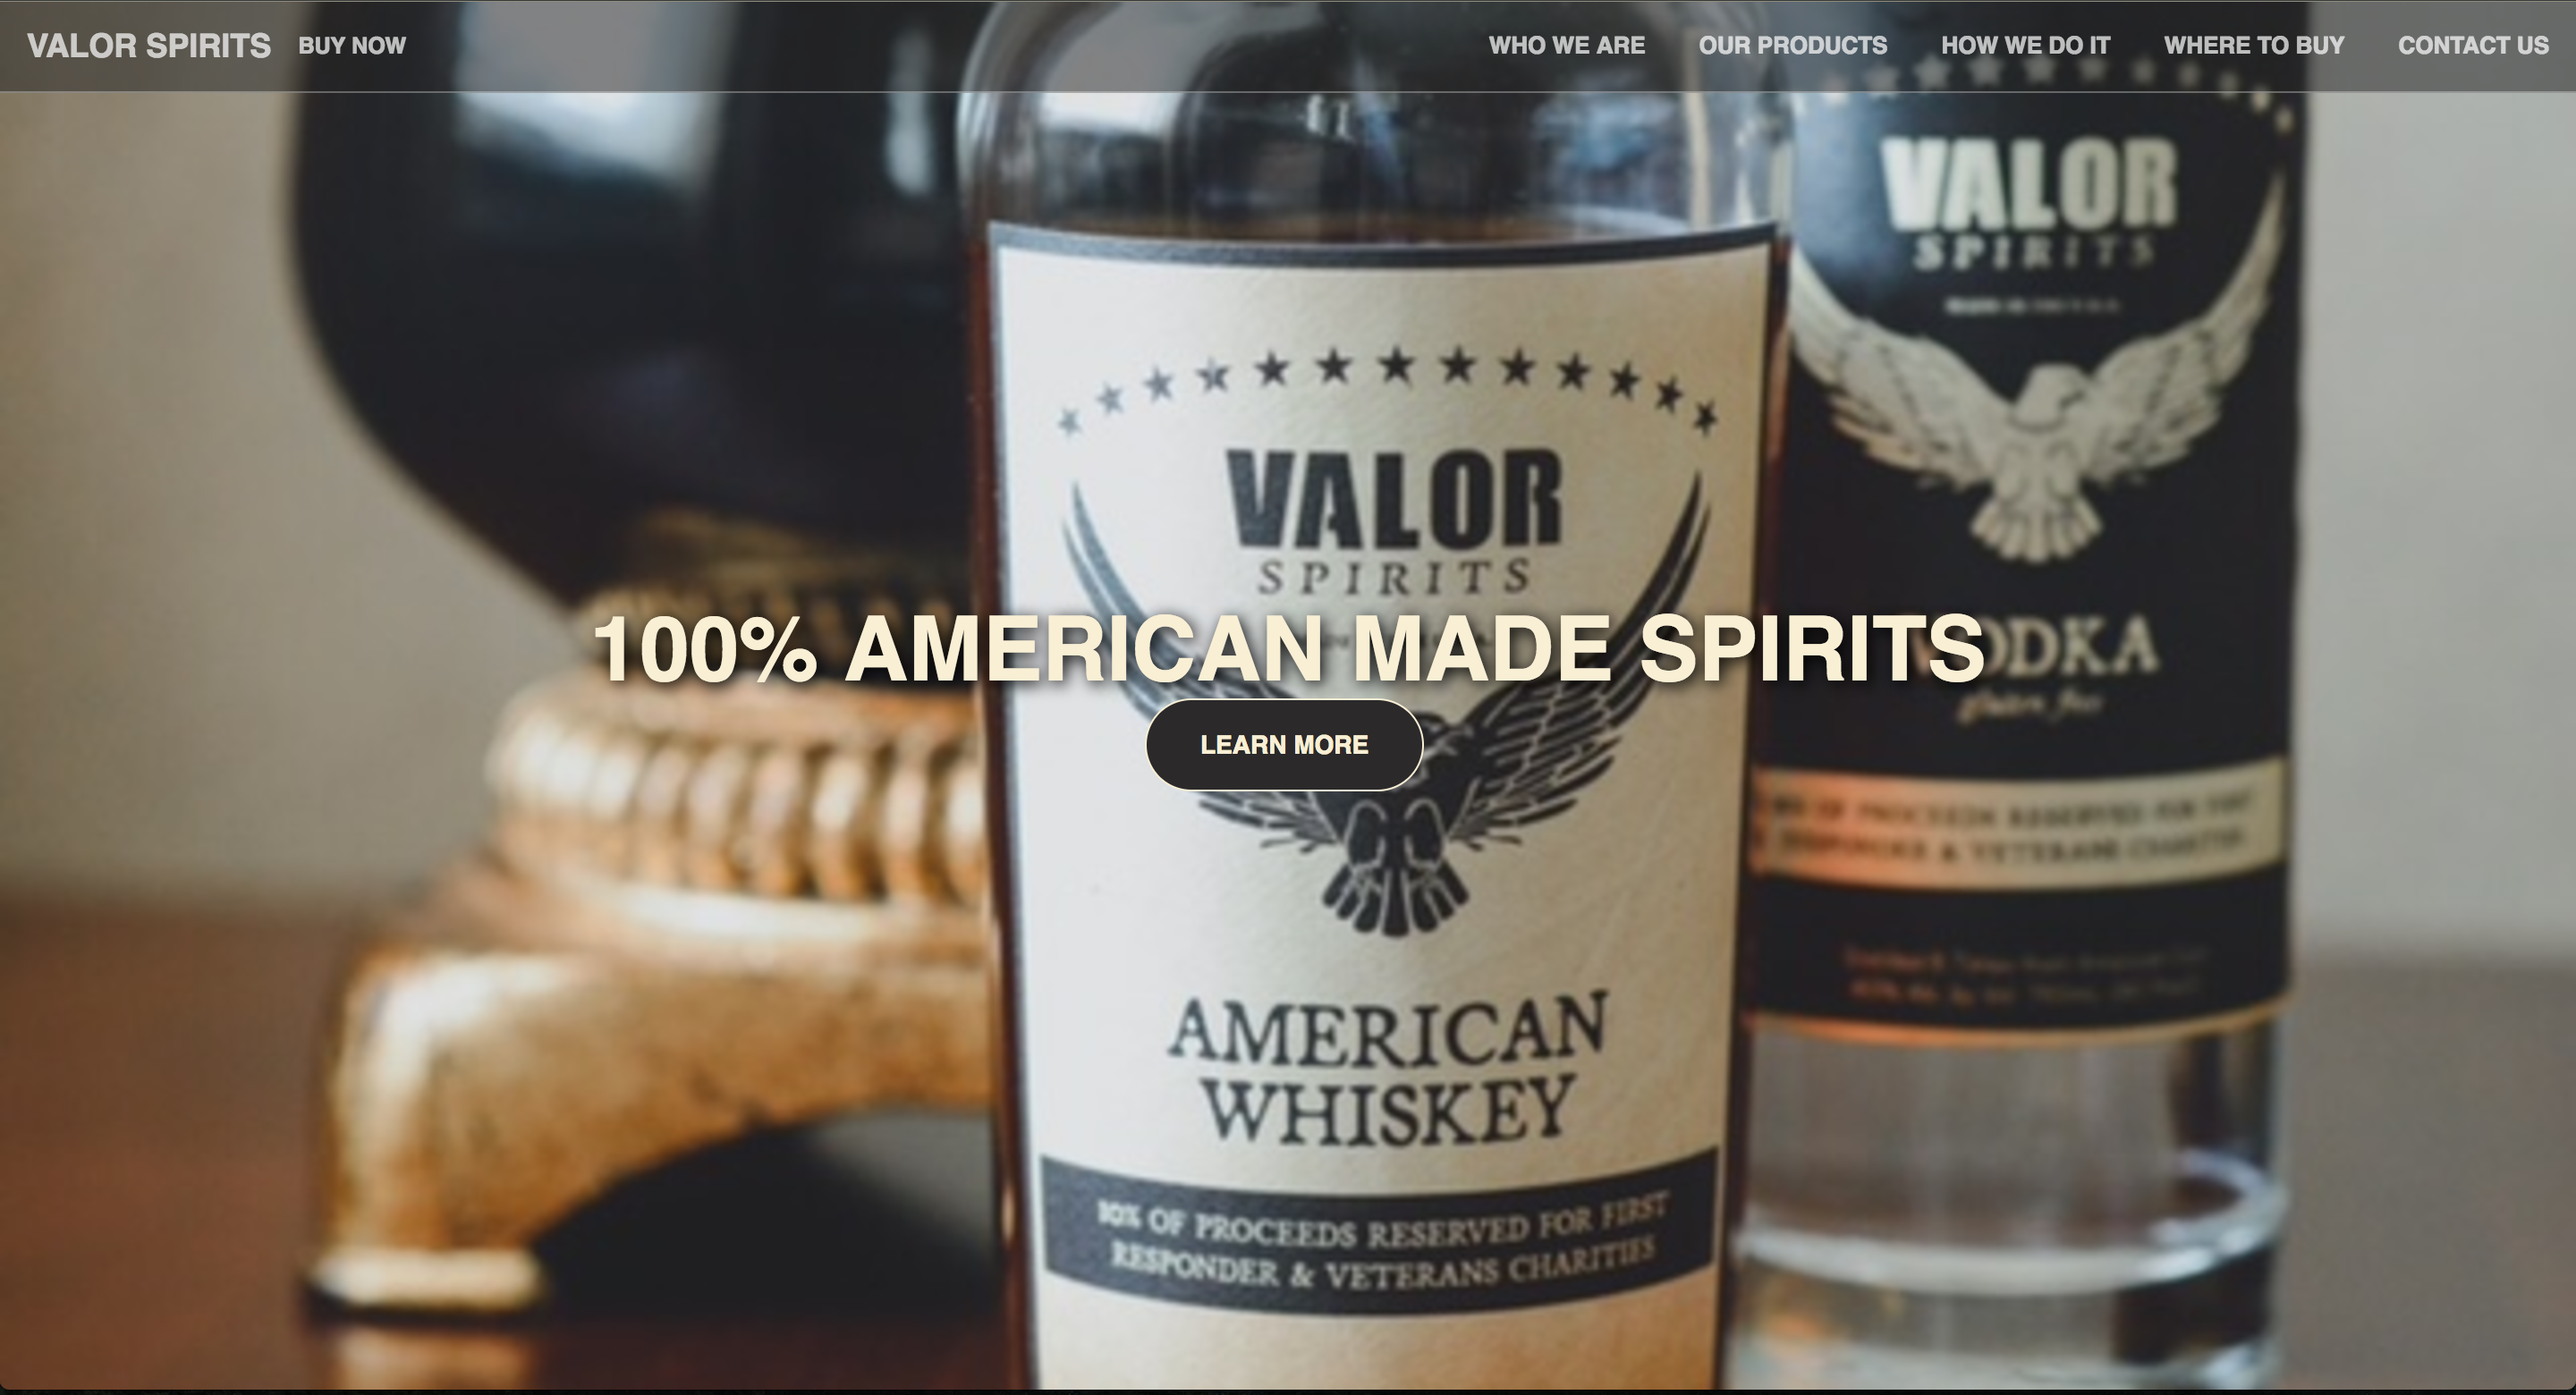
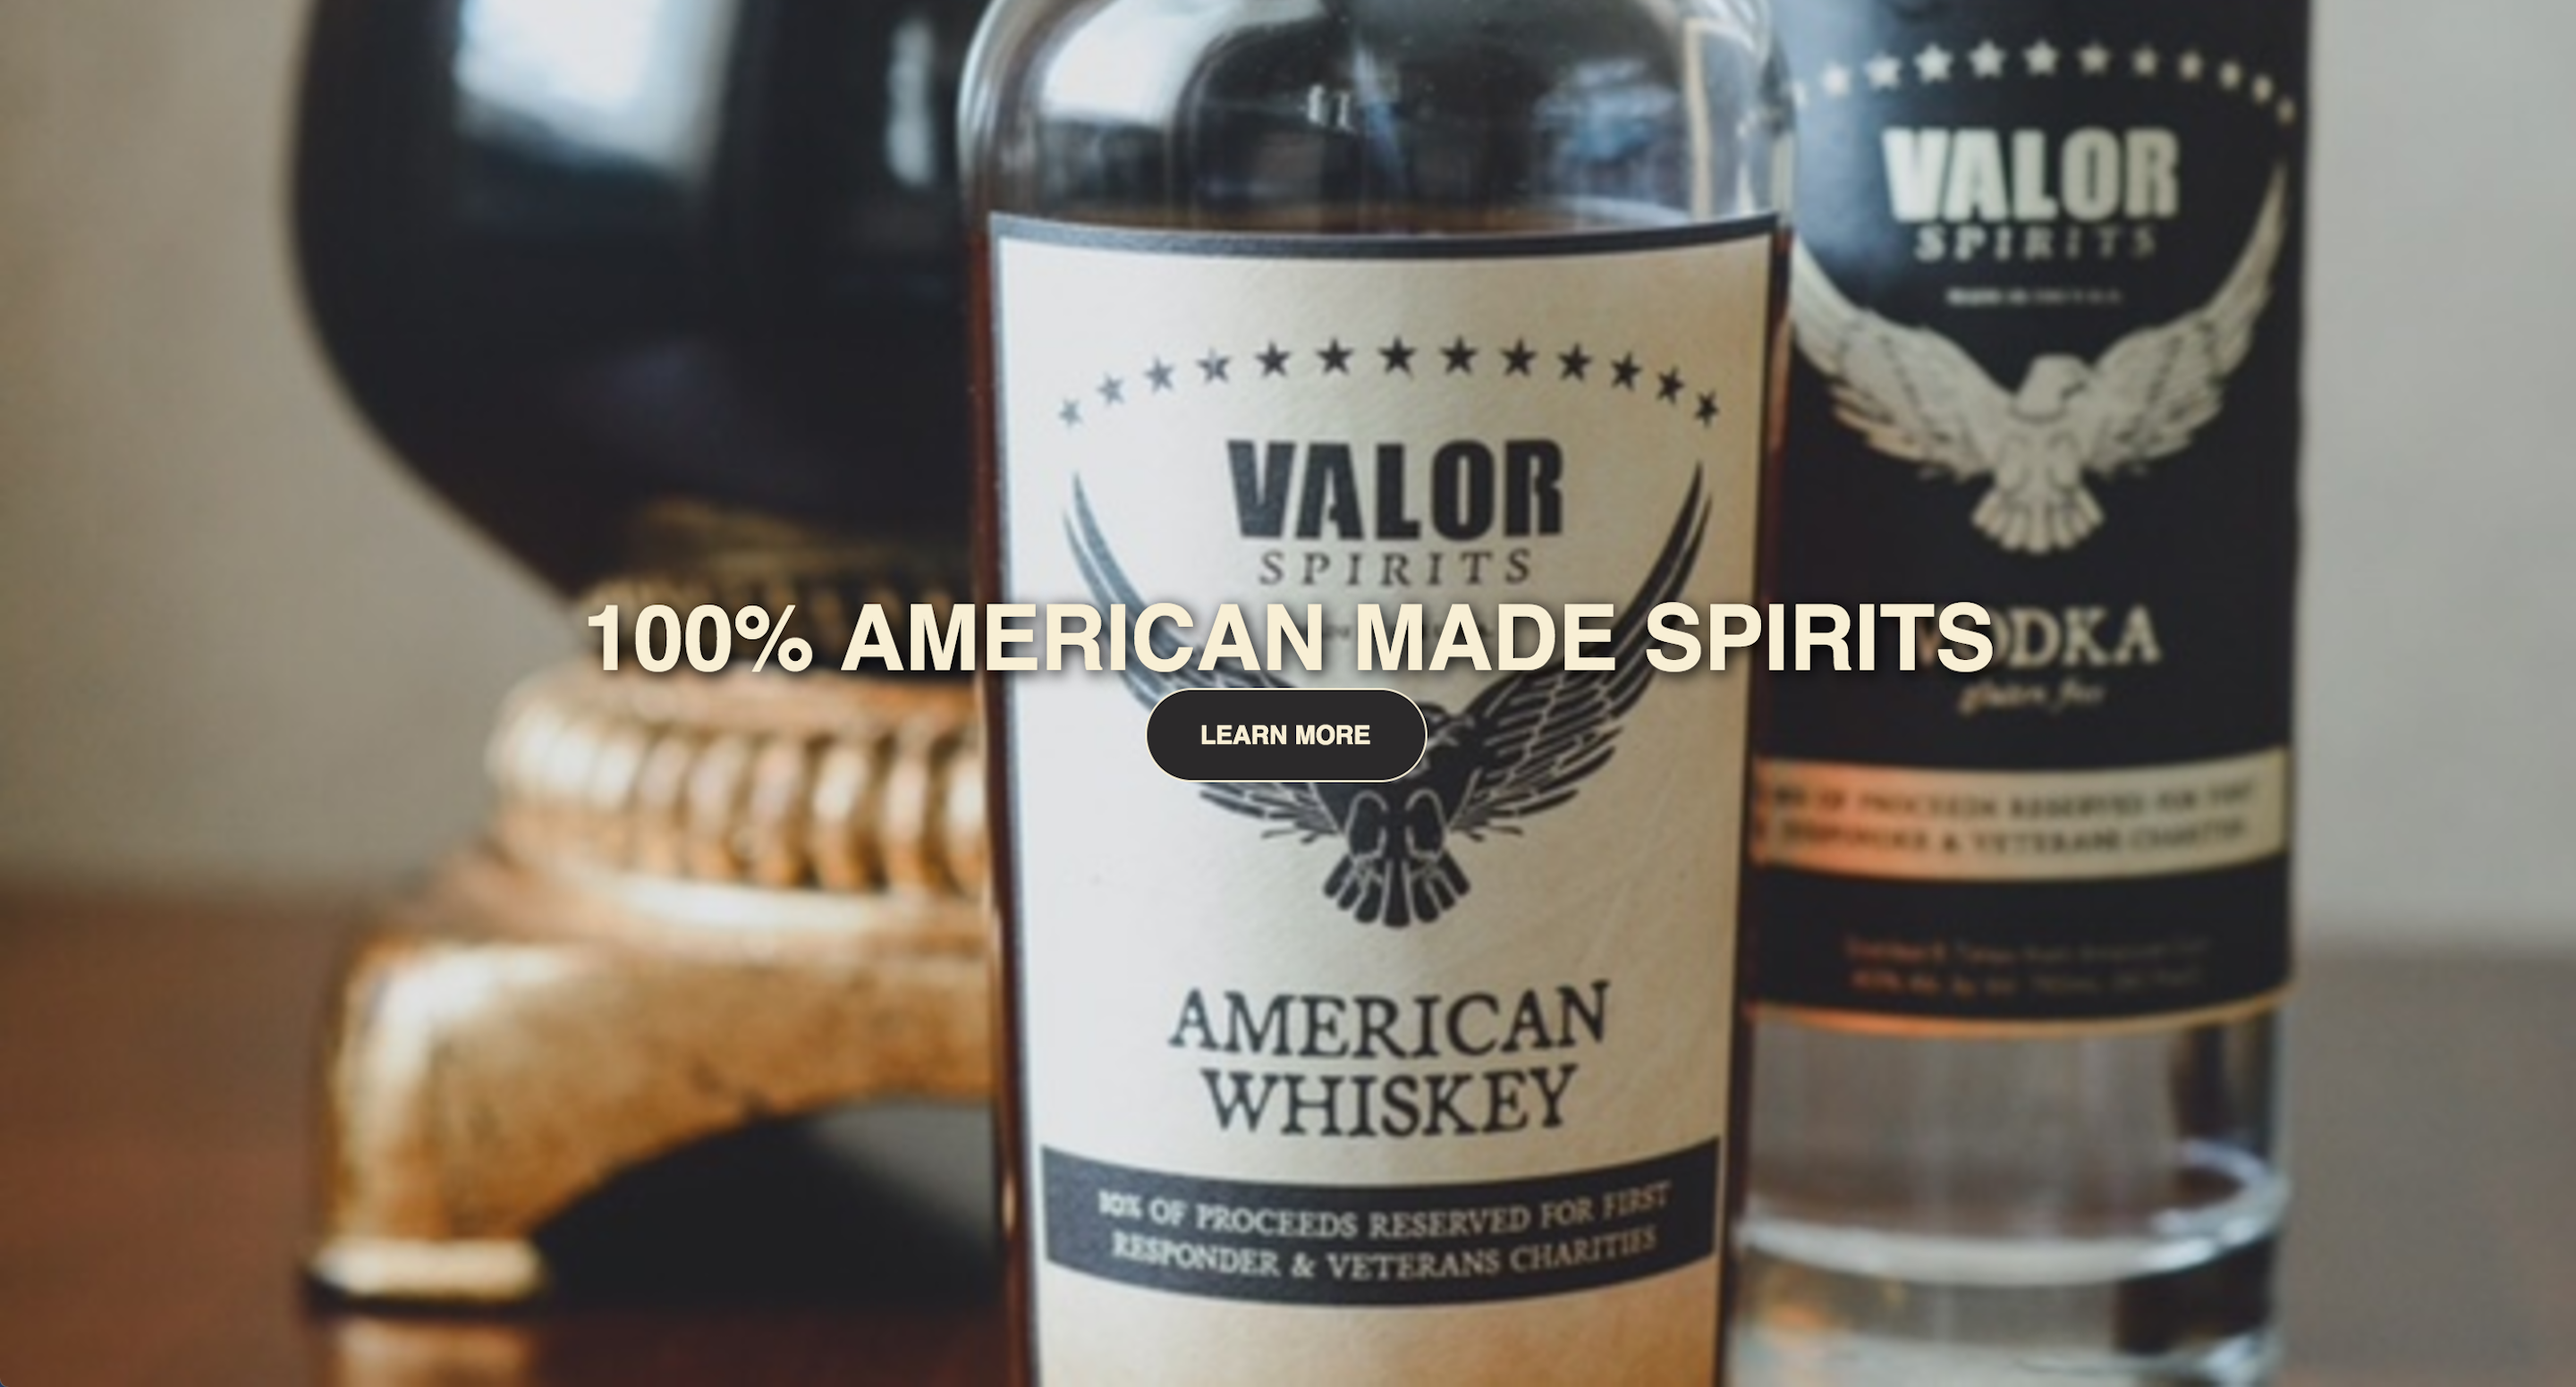
fixed img issues on mobile

diff --git a/css/style.css b/css/style.css
@@ -452,7 +452,7 @@ header .header-content {
 @media (max-width: 767px) {
 
     .bgimg-1, .cool-image{
-        min-width: 105.5%; 
+        min-width: 107%; 
         overflow-x: hidden;
         background-attachment: scroll;
     }
@@ -505,7 +505,8 @@ header .header-content {
 .bg-primary {
     background-color: #ffffff;
     position: relative;
-    padding-top: 20px;
+    padding-top: 40px;
+    padding-bottom: 40px;
 }
 
 
